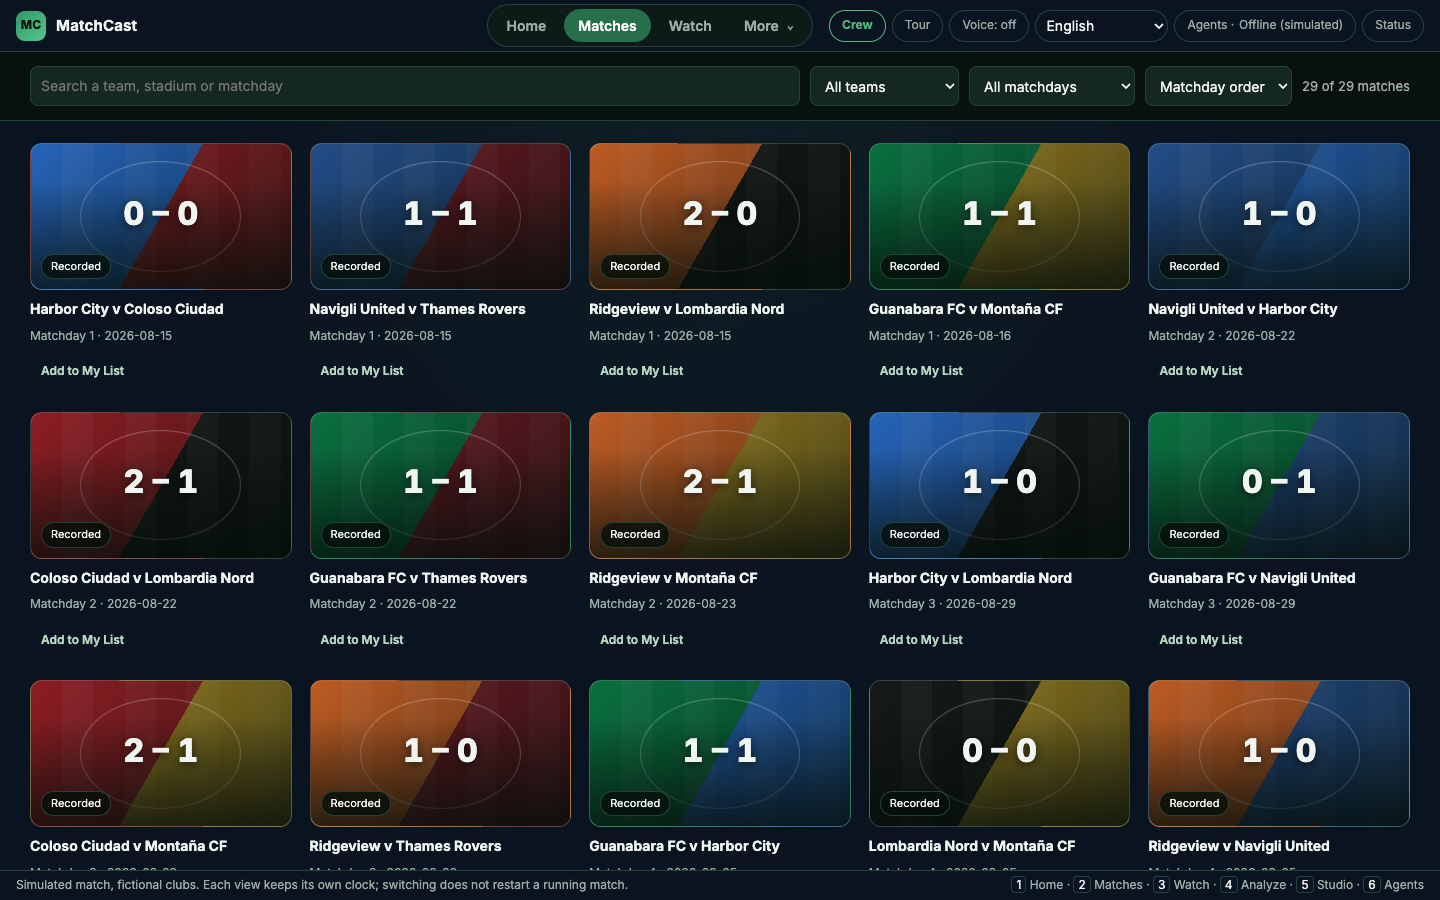
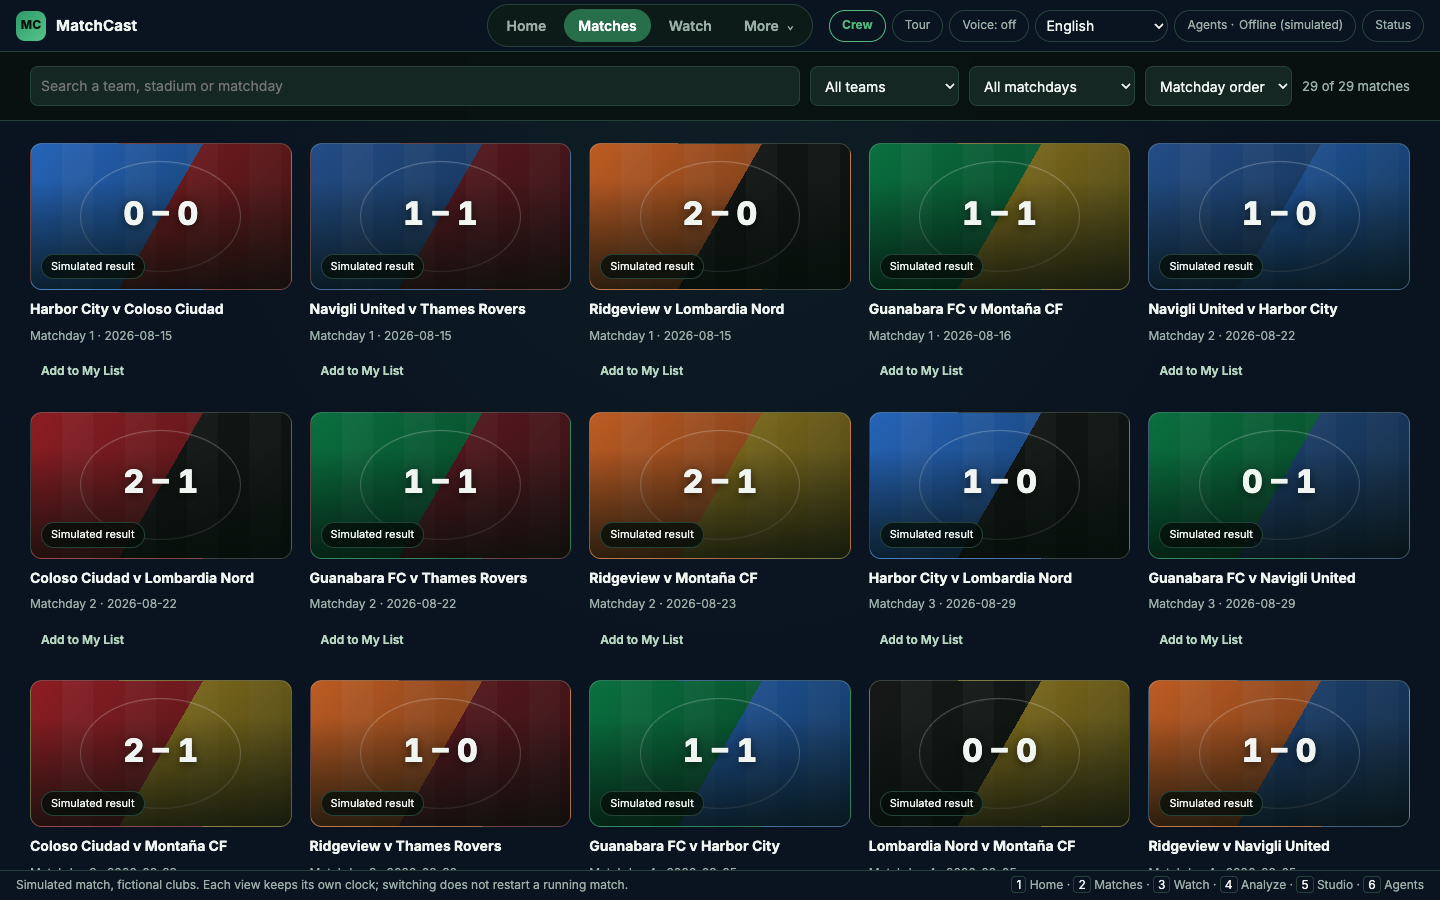
AB#373 Label synthetic scores and test filters

diff --git a/apps/unified/index.html b/apps/unified/index.html
@@ -410,7 +410,7 @@ dialog.tour button.go{background:var(--accent-strong);border-color:var(--accent-
   </div>
   <div class="scoreline" aria-live="polite">
     <span class="team h" id="home-name"><i id="home-dot"></i><span id="home-club">Choose a fixture</span></span>
-    <span class="score" id="score"><span id="score-v">–</span><small id="score-l">Recorded</small></span>
+    <span class="score" id="score"><span id="score-v">–</span><small id="score-l">Simulated result</small></span>
     <span class="team a" id="away-name"><span id="away-club"></span><i id="away-dot"></i></span>
   </div>
   <div class="meta" id="meta"></div>
@@ -452,7 +452,7 @@ dialog.tour button.go{background:var(--accent-strong);border-color:var(--accent-
     <div class="lib-grid" id="lib-grid"></div>
     <p class="lib-empty" id="lib-empty" hidden>No match fits these filters. <button type="button" class="pill" id="lib-reset">Clear filters</button></p>
   </section>
-  <section class="browse" id="v-highlights" data-view="highlights" aria-label="Highlights from recorded clips" hidden>
+  <section class="browse" id="v-highlights" data-view="highlights" aria-label="Highlights from the current Watch session" hidden>
     <header class="browse-head"><p class="eyebrow">Your library</p><h2>Highlights</h2><p>Clips held from the current Watch session on this device.</p></header>
     <div class="highlight-grid" id="highlight-grid"></div>
     <div class="browse-empty" id="highlights-empty" hidden><h3>No clips are available yet</h3><p>Only moments with replay frames from this Watch session appear here.</p><a href="#watch">Open Watch</a></div>
@@ -822,7 +822,7 @@ const fxCard = (fx) => {
   const saved = SAVED.has(fx.id);
   return '<article class="match-card">'
     + '<button type="button" class="match-open" data-fx="' + esc(fx.id) + '" aria-label="' + esc(fxTitle(fx) + '. ' + fxSub(fx) + '. Open on Watch') + '">'
-    + '<span class="match-thumb" style="--hc:' + esc(fx.home.color) + ';--ac:' + esc(fx.away.color) + '"><span class="sc">' + esc(sc) + '</span><span class="tag">' + (fx.national ? 'Synthetic squads' : 'Recorded') + '</span></span>'
+    + '<span class="match-thumb" style="--hc:' + esc(fx.home.color) + ';--ac:' + esc(fx.away.color) + '"><span class="sc">' + esc(sc) + '</span><span class="tag">' + (fx.national ? 'Synthetic squads' : 'Simulated result') + '</span></span>'
     + '<span class="mtitle">' + esc(fxTitle(fx)) + '</span><span class="mmeta">' + esc(fxSub(fx)) + '</span></button>'
     + '<button type="button" class="save-match" data-save-fx="' + esc(fx.id) + '" aria-pressed="' + String(saved) + '">' + (saved ? 'Remove from My List' : 'Add to My List') + '</button></article>';
 };
@@ -832,7 +832,7 @@ function paintHome() {
   if (!feat) { $('hero').innerHTML = ''; $('home-rows').innerHTML = ''; return; }
   const hero = $('hero');
   hero.style.setProperty('--hc', feat.home.color); hero.style.setProperty('--ac', feat.away.color);
-  hero.innerHTML = '<div class="hero-copy"><p class="kicker">Featured · ' + (feat.national ? 'synthetic squads' : 'recorded season match') + '</p>'
+  hero.innerHTML = '<div class="hero-copy"><p class="kicker">Featured · ' + (feat.national ? 'synthetic squads' : 'synthetic season match') + '</p>'
     + '<h2>' + esc(fxTitle(feat)) + '</h2><p class="sub">' + esc(fxSub(feat)) + ' · ' + esc(stadiumName(feat.stIndex)) + '</p>'
     + '<div class="hero-go"><button type="button" class="btn play" data-fx="' + esc(feat.id) + '">Watch the match</button><button type="button" class="btn" data-save-fx="' + esc(feat.id) + '" aria-pressed="' + String(SAVED.has(feat.id)) + '">' + (SAVED.has(feat.id) ? 'Saved · remove' : '+ My List') + '</button><a class="btn" href="#matches">All matches</a></div></div>';
   const byDate = (a, b) => b.date.localeCompare(a.date) || b.matchday - a.matchday;
@@ -844,7 +844,7 @@ function paintHome() {
   $('home-rows').innerHTML = rows.map(([title, list, all]) => '<section class="row" aria-label="' + esc(title) + '"><div class="row-head"><h3>' + esc(title) + '</h3>'
     + (all ? '<a href="#matches">See all matches</a>' : '') + '</div><div class="row-track">' + list.map(fxCard).join('') + '</div></section>').join('');
 }
-const libHay = (fx) => [fx.home.club, fx.away.club, 'matchday ' + fx.matchday, fx.date, stadiumName(fx.stIndex), fx.national ? 'national synthetic squads' : 'recorded'].join(' ').toLowerCase();
+const libHay = (fx) => [fx.home.club, fx.away.club, 'matchday ' + fx.matchday, fx.date, stadiumName(fx.stIndex), fx.national ? 'national synthetic squads' : 'simulated'].join(' ').toLowerCase();
 const LIB_SORT = {
   md: (a, b) => a.matchday - b.matchday || a.id.localeCompare(b.id),
   goals: (a, b) => fxGoals(b) - fxGoals(a) || a.matchday - b.matchday,
@@ -945,7 +945,7 @@ function paint() {
   $('meta').title = $('meta').textContent;
   if (live) { $('score-v').textContent = live.live.score.join('–'); $('score-l').textContent = live.live.over ? 'Full time' : live.live.minute + "'"; }
   else if (fx && fx.national) { $('score-v').textContent = '–'; $('score-l').textContent = 'Synthetic squad'; }   // a national-team fixture has no recorded result
-  else if (fx) { $('score-v').textContent = fx.score.join('–'); $('score-l').textContent = 'Recorded'; }
+  else if (fx) { $('score-v').textContent = fx.score.join('–'); $('score-l').textContent = 'Simulated result'; }
   else { $('score-v').textContent = '–'; $('score-l').textContent = 'Not in season'; }
 
   const f = FR[current];
@@ -1450,7 +1450,7 @@ function init(list) {
   for (const m of Object.keys(md)) {
     const g = document.createElement('optgroup'); g.label = 'Matchday ' + m;
     for (const fx of md[m]) { const o = document.createElement('option'); o.value = fx.id;
-      o.textContent = fx.home.club + ' v ' + fx.away.club; o.title = fx.national ? 'Synthetic squads, no recorded result' : 'Recorded result ' + fx.score.join('–') + ' (the Analyst replays it)'; g.appendChild(o); }
+      o.textContent = fx.home.club + ' v ' + fx.away.club; o.title = fx.national ? 'Synthetic squads, no recorded result' : 'Simulated result ' + fx.score.join('–') + ' (the Analyst replays the season run)'; g.appendChild(o); }
     sel.appendChild(g);
   }
   sel.onchange = () => { const fx = byId(sel.value); if (!fx) return; setMatch(setupOf(fx), fx.id); toast(fx.home.club + ' v ' + fx.away.club + ' is the shared match'); };

diff --git a/tests/e2e/browse-pages.spec.ts b/tests/e2e/browse-pages.spec.ts
@@ -72,6 +72,52 @@ test('Opening a match from its card is the action that starts Watch', async ({ p
   await expect.poll(() => page.frames().some((frame) => /watch\/index\.html/.test(frame.url()))).toBe(true);
 });
 
+test('Matches search, team, matchday and sort filters change the results', async ({ page }) => {
+  await page.goto('/index.html#matches', { waitUntil: 'domcontentloaded' });
+  await expect.poll(() => page.locator('#fx option').count()).toBeGreaterThan(20);
+  const total = await page.locator('#lib-grid .match-card').count();
+  expect(total).toBeGreaterThan(20);
+
+  await page.locator('#lib-q').fill('Harbor City');
+  await expect.poll(() => page.locator('#lib-grid .match-card').count()).toBeGreaterThan(0);
+  const searchResults = await page.locator('#lib-grid .match-open').allTextContents();
+  expect(searchResults.length).toBeLessThan(total);
+  expect(searchResults.every((text) => text.includes('Harbor City'))).toBe(true);
+
+  await page.locator('#lib-q').fill('');
+  const harbor = await page.locator('#lib-team option').allTextContents();
+  const harborIndex = harbor.findIndex((text) => text === 'Harbor City');
+  expect(harborIndex).toBeGreaterThan(0);
+  await page.locator('#lib-team').selectOption({ label: 'Harbor City' });
+  const teamResults = await page.locator('#lib-grid .match-open').allTextContents();
+  expect(teamResults.length).toBeGreaterThan(0);
+  expect(teamResults.every((text) => text.includes('Harbor City'))).toBe(true);
+
+  await page.locator('#lib-team').selectOption('');
+  await page.locator('#lib-md').selectOption({ label: 'Matchday 1' });
+  const dayResults = await page.locator('#lib-grid .mmeta').allTextContents();
+  expect(dayResults.length).toBeGreaterThan(0);
+  expect(dayResults.every((text) => text.startsWith('Matchday 1'))).toBe(true);
+
+  await page.locator('#lib-md').selectOption('');
+  await page.locator('#lib-sort').selectOption('goals');
+  const goals = (await page.locator('#lib-grid .sc').allTextContents())
+    .map((score) => score.match(/(\d+)\s*[–-]\s*(\d+)/))
+    .filter((match): match is RegExpMatchArray => !!match)
+    .map((match) => Number(match[1]) + Number(match[2]));
+  expect(goals.length).toBeGreaterThan(20);
+  expect(goals).toEqual([...goals].sort((a, b) => b - a));
+});
+
+test('season scores are explicitly labeled as synthetic results', async ({ page }) => {
+  await page.goto('/index.html#matches', { waitUntil: 'domcontentloaded' });
+  await expect.poll(() => page.locator('#fx option').count()).toBeGreaterThan(20);
+  const labels = await page.locator('#lib-grid .match-thumb .tag').allTextContents();
+  expect(labels).toContain('Synthetic squads');
+  expect(labels).toContain('Simulated result');
+  expect(labels).not.toContain('Recorded');
+});
+
 for (const width of [390, 768, 1440]) {
   test(`Home and Matches fit the ${width} px viewport`, async ({ page }) => {
     await page.setViewportSize({ width, height: 900 });

diff --git a/tests/e2e/shell-layout.spec.ts b/tests/e2e/shell-layout.spec.ts
@@ -3,7 +3,7 @@ import { openShell } from './helpers';
 declare const AG: any;
 
 // UX review 2026-10-24, shell items: one utility row on a phone, 32 px chips on a desktop, no stray
-// control beside Voice, no clipped subtitle, and a fixture list that says its score is a recorded one.
+// control beside Voice, no clipped subtitle, and a fixture list that labels synthetic results clearly.
 
 // Judge re-test: on a phone nothing in the header runs past the right edge (it used to be one sideways-scrolling row). The utilities wrap:
 // language and Status share the wordmark's row, Tour, Voice and the agents pill sit under the view switcher.
@@ -43,14 +43,14 @@ test('desktop chips are at least 32 px tall and the live-region pill is not draw
   expect(m.subRight, 'the subtitle is either hidden or ends before the view switcher').toBeLessThanOrEqual(m.swLeft);
 });
 
-test('the fixture list says its score is recorded, and the score label says so too', async ({ page }) => {
+test('the fixture list labels synthetic scores, and the score label says so too', async ({ page }) => {
   await page.route(/\/(watch|broadcast)\/index\.html/, (rt) => rt.abort());   // no 3D view, so no live score replaces the label
   await openShell(page, 'analyst');
   const labels = await page.$$eval('#fx option', (os) => os.map((o) => o.title || '').filter((t) => /\d–\d/.test(t)));   // the score moved from the label to the title (quiet first screen)
   expect(labels.length).toBeGreaterThan(20);
-  for (const t of labels) expect(t).toMatch(/^Recorded result \d+–\d+/);
+  for (const t of labels) expect(t).toMatch(/^Simulated result \d+–\d+/);
   await page.selectOption('#fx', { index: 1 });   // a season fixture (the default is the national-team one, which says Synthetic squad)
-  await expect(page.locator('#score-l')).toHaveText('Recorded');
+  await expect(page.locator('#score-l')).toHaveText('Simulated result');
 });
 
 test('a season load error is still visible on a phone', async ({ page }) => {

diff --git a/docs/architecture/11-frontend.md b/docs/architecture/11-frontend.md
@@ -167,7 +167,7 @@ The top bar has a Status button beside the api pill. It opens a dialog built by 
 
 ## UX review pass 1 (24 Oct): shell and phone Watch
 - Header: the utilities (Tour, Voice, EN/ES/हिन्दी, the agents pill, Status, the Azure label) are one row. On a phone (≤ 560 px) that row scrolls sideways and the agents pill comes first, so the header is three short rows and the view gets about 60 percent of an 844 px screen. Chips and pills are at least 32 px tall, with 12 px type in the pills, chips, match-bar labels and tour (the Agents tab tables are unchanged). `#voice-src` is a live region and is not drawn while it is empty. The agents pill reads "Agents · Offline (simulated)" so it is not mistaken for the engine chips ("Same fixture as Analyst", "Match engine running here").
-- The fixture list reads "A v B (recorded 3–3)" and the score label says "Recorded", because a finished season result is not the live score at 0:00. On a phone the meta line (unless it shows a season load error) and the engine chip are hidden, and the toast moves to the top.
+- Season fixture scores and browse cards say "Simulated result" so synthetic match records are not mistaken for real match data. The live score label stays separate. On a phone the meta line (unless it shows a season load error) and the engine chip are hidden, and the toast moves to the top.
 - Watch at ≤ 640 px: the Vision tracker still starts with the match, but its panel starts closed. The Vision button and the panel's close button show and hide the panel only; pass 7 made this true at every width, so no viewer turns the tracker off from the HUD. The live stats strip is hidden (Match data holds the numbers) so it does not sit under the Match Pulse bar. Tests: `shell-layout.spec.ts`, `watch-phone-overlays.spec.ts`.
 
 ## UX review pass 1 (24 Oct): Analyst presentation

diff --git a/apps/unified/README.md b/apps/unified/README.md
@@ -10,7 +10,7 @@ One shell for Home, Matches, Highlights and My List, with Watch as the match pla
 
 Sources are in `sources/`, a copy of the three prototype folders. They are read only. `build.py` copies each view from its source folder and applies a few asserted patches. The shell, `index.html`, is written by hand.
 
-Home features a synthetic fixture and rows from the season. Matches provides search and team, matchday and sort filters. These shell pages do not load the 3D player. Match cards open Watch only when selected. My List saves fixture IDs in this browser and says "Saved on this device"; it does not sync across devices or accounts. Highlights uses the existing Watch-session clips in memory and lists a moment only when its 3D clip has enough frames. It is not an archive of old match videos.
+Home features a synthetic fixture and rows from the season. Matches provides search and team, matchday and sort filters. Season scores are labelled "Simulated result" so they are not mistaken for real match records. These shell pages do not load the 3D player. Match cards open Watch only when selected. My List saves fixture IDs in this browser and says "Saved on this device"; it does not sync across devices or accounts. Highlights uses the existing Watch-session clips in memory and lists a moment only when its 3D clip has enough frames. It is not an archive of old match videos.
 
 ## The shared match
 - The match bar holds one season fixture (28 in the league, from `shared/fixtures.json`). The fixture sets the teams, stadium, month, kick-off, seed, half length and formations.
